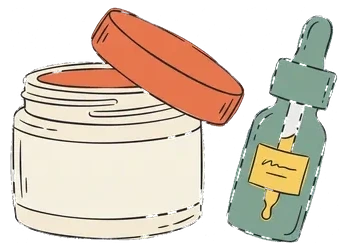
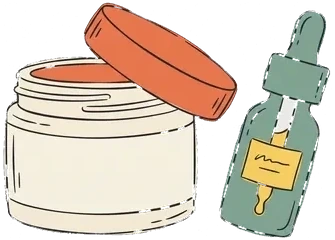
Le illustrazioni entrano nel foglio-picker di Vendi
Erano rimaste le emoji per una ragione che sembrava buona — li' si
sceglie, non si guarda — ma vista a schermo la lista con le
illustrazioni convince di piu'.

Il file e' un FRANCOBOLLO da 128px e non quello pieno: 181 KB in tutto
invece di 787, e 1,4 MB di bitmap invece di 13. Un menu che si apre in
due secondi non deve scaricare mezzo megabyte. Li fa lo stesso script
delle illustrazioni, dai file gia' pareggiati, cosi' le proporzioni
del menu sono quelle della griglia senza un secondo posto da tarare.

Restano nude, senza pastiglia: quella dava piu' contrasto a tutti ma
faceva di una lista da scorrere un cassetto di app. Il prezzo e'
scritto nel codice — in tema chiaro il barattolo di crema e il ciak si
assottigliano sul bianco, perche' quei disegni usano il crema come
colore del corpo.

Nella griglia di Sfoglia, due ritocchi guardando la pagina vera: la
ciotola del cane scende sotto il tetto, la chitarra sale a 49x72 —
era al soffitto, quindi e' salito il riquadro per tutti.

Changed region(s): [[0.0, 0.0, 0.7164, 0.9917], [0.6269, 0.0292, 0.9851, 0.9917]]

diff --git a/miniapp.html b/miniapp.html
@@ -480,7 +480,7 @@
      estremi ogni disegno scende sui 57px e le piastrelle si svuotano
      — si perde su tutte per pareggiare due casi. */
   .cat-tile .cat-fig{flex:1 1 auto;min-height:0;position:relative;
-    width:54%;margin:5px 13px 10px auto}
+    width:54%;margin:4px 13px 8px auto}
   /* CENTRATA nel suo riquadro, non incollata all'angolo: i file
      pareggiati portano un bordo trasparente attorno (vedi
      ritaglia_categorie.py), e ancorati in basso a destra si
@@ -1587,6 +1587,30 @@
   .picker-voce.sel{background:var(--sats-soft)}
   .picker-voce:focus-visible{outline:2px solid var(--sats);outline-offset:-2px}
   .picker-voce .p-ico{font-size:18px;flex:0 0 auto}
+  /* L'illustrazione della categoria nel foglio-picker e nel campo,
+     NUDA sul foglio (deciso lug 2026: la pastiglia scura, provata,
+     dava piu' contrasto ma trasformava una lista da scorrere in un
+     cassetto di app).
+     IMPERFEZIONE DICHIARATA, che e' il prezzo di quella scelta: questi
+     disegni usano il crema come colore del CORPO, non come dettaglio,
+     e il foglio in tema chiaro e' bianco — cosi' il barattolo di crema
+     ci perde il corpo e restano coperchio e contagocce a mezz'aria, e
+     il telefono e il ciak si assottigliano. Gli altri ventitre'
+     reggono, e in tema scuro reggono tutti. Se un domani si vorra'
+     chiudere quel buco, la strada NON e' ritoccare qui: e' rifare quei
+     tre disegni con un corpo che non sia quasi-bianco.
+     Il file e' il francobollo `-mini` da 128px, non quello pieno: 180
+     KB in tutto invece di 787, per un menu che si apre in due secondi
+     (li fa ritaglia_categorie.py). */
+  .cat-ico{flex:0 0 auto;position:relative;width:30px;height:30px}
+  .cat-ico img{position:absolute;inset:0;width:100%;height:100%;
+    object-fit:contain;display:block}
+  /* ripiego a emoji se l'immagine non arriva: lo stesso giro delle
+     piastrelle di Sfoglia, sibling scoperto dall'onerror */
+  .cat-ico .cat-ico-em{position:absolute;inset:0;display:flex;
+    align-items:center;justify-content:center;font-size:17px}
+  .cat-ico img + .cat-ico-em{display:none}
+  .campo-scelta .cat-ico{width:26px;height:26px}
   /* Le icone graduate delle taglie: dentro il tondo del box non
      scendono mai sotto la riga di base, quindi le voci del foglio
      restano incolonnate mentre la scatola cresce */
@@ -3476,6 +3500,16 @@ function setCat(c){
    anche quali file sono servibili — prove.py fallisce se divergono o
    se a una categoria manca la sua immagine. */
 const slugCat = c => c.toLowerCase().replace(/ /g,'-');
+
+/* L'illustrazione della categoria in piccolo: la usa il foglio-picker
+   di Vendi (voci e campo chiuso). Il file e' il francobollo `-mini`,
+   non quello pieno — un menu non deve scaricare 787 KB per aprirsi.
+   L'emoji resta sotto come ripiego, scoperta dall'onerror. */
+function icoCategoria(c){
+  return `<span class="cat-ico"><img src="/assets/categorie/${slugCat(c)}-mini.webp"
+      alt="" loading="lazy" decoding="async" onerror="this.remove()"
+    ><span class="cat-ico-em" aria-hidden="true">${EMOJI_CAT[c]||'📦'}</span></span>`;
+}
 
 /* Le 26 piastrelle. I conteggi sono gli stessi di renderChips (globali
    dal server, dal locale in DEMO) ma qui NON si mostrano: servono solo
@@ -5682,8 +5716,8 @@ function closeSheet(){
 const PICKER = {
   sellCat: {titolo:'Categoria',
     voci: () => [...el('sellCat').options].map(o => ({val:o.value,
-      resa:`<span class="p-ico">${EMOJI_CAT[o.value]||'📦'}</span><span><b>${esc(o.value)}</b></span>`})),
-    campo: v => `<span class="p-ico">${EMOJI_CAT[v]||'📦'}</span><span>${esc(v)}</span>`,
+      resa:`${icoCategoria(o.value)}<span><b>${esc(o.value)}</b></span>`})),
+    campo: v => `${icoCategoria(v)}<span>${esc(v)}</span>`,
     /* certe categorie la condizione non la chiedono: il campo sotto
        compare o sparisce con la scelta */
     poi: aggiornaCondizioneForm},

diff --git a/ritaglia_categorie.py b/ritaglia_categorie.py
@@ -45,13 +45,27 @@ SOGLIA_ALPHA = 8
 # che resta sotto il nome). Serve solo a sapere CHI e' limitato in
 # larghezza e chi in altezza — se quelle misure cambiassero di molto,
 # il pareggio andrebbe rifatto.
-BOX_W, BOX_H = 85.9, 69.0
+BOX_W, BOX_H = 85.9, 72.0
 # Il tetto, in multipli dell'inchiostro MEDIANO: 1.05 lascia stare la
 # meta' piu' leggera e calma solo chi sporge.
 TETTO = 1.05
+# I RITOCCHI A MANO, guardando la pagina vera: la misura
+# dell'inchiostro porta lontano ma non decide tutto — una ciotola vista
+# dall'alto «pesa» piu' di quanto dica il suo inchiostro. Qui il
+# moltiplicatore sul tetto per le singole voci: sotto 1 = piu' piccola.
+# Chi ne aggiunge una lo faccia dopo aver guardato la griglia intera,
+# non la singola piastrella.
+RITOCCHI = {"animali": .88}
 # Sotto questo scarto non si riscrive: un ritocco da pochi pixel non
 # vale una seconda compressione.
 MINIMO = .02
+# Il francobollo per il foglio-picker di Vendi, dove l'illustrazione
+# sta in una pastiglia da ~32px: il file pieno la' dentro sarebbe uno
+# spreco (26 file da 512px, 787 KB e 13 MB di bitmap da decodificare,
+# per un menu che si apre in due secondi). 128px danno margine anche
+# sugli schermi a 3x. Stessa idea delle miniature `_min` delle foto.
+LATO_MINI = 128
+SUFFISSO_MINI = "-mini"
 
 
 def _misura(im):
@@ -80,7 +94,9 @@ def main():
         print(f"cartella {CARTELLA} assente")
         return 1
 
-    file = sorted(f for f in os.listdir(CARTELLA) if f.endswith(".webp"))
+    file = sorted(f for f in os.listdir(CARTELLA)
+                  if f.endswith(".webp")
+                  and not f.endswith(SUFFISSO_MINI + ".webp"))
     misure = {}
     for nome in file:
         im = Image.open(os.path.join(CARTELLA, nome)).convert("RGBA")
@@ -102,7 +118,8 @@ def main():
         disegno = im.crop(bb)
         w, h = disegno.size
         # quanto bordo serve perche' il reso scenda sotto il tetto
-        p = max(1.0, (reso / tetto) ** .5) if tetto else 1.0
+        suo = tetto * RITOCCHI.get(nome[:-5], 1.0)
+        p = max(1.0, (reso / suo) ** .5) if suo else 1.0
         nw, nh = round(w * p), round(h * p)
         vecchio = im.size
         if (abs(nw - vecchio[0]) <= MINIMO * nw
@@ -120,7 +137,37 @@ def main():
         fatti += 1
 
     print(f"\n{fatti} da sistemare, {fermi} gia' a posto")
-    if fatti and not scrivi:
+
+    # I francobolli per il picker, rifatti SEMPRE dai file finali (cioe'
+    # dopo ritaglio e pareggio): cosi' nel menu le proporzioni sono le
+    # stesse della griglia, senza un secondo posto dove tararle.
+    mini_fatti = mini_fermi = 0
+    peso = 0.0
+    for nome in file:
+        pieno = os.path.join(CARTELLA, nome)
+        mini = os.path.join(CARTELLA, nome[:-5] + SUFFISSO_MINI + ".webp")
+        im = Image.open(pieno).convert("RGBA")
+        s = LATO_MINI / max(im.size)
+        atteso = (max(1, round(im.size[0] * s)), max(1, round(im.size[1] * s)))
+        if os.path.exists(mini) and Image.open(mini).size == atteso and not scrivi:
+            mini_fermi += 1
+            peso += os.path.getsize(mini) / 1024
+            continue
+        if scrivi:
+            im.resize(atteso, Image.LANCZOS).save(
+                mini, "WEBP", quality=QUALITA, method=6)
+            peso += os.path.getsize(mini) / 1024
+            if os.path.exists(mini):
+                mini_fatti += 1
+        else:
+            mini_fatti += 1
+    if scrivi:
+        print(f"{mini_fatti} francobolli da {LATO_MINI}px, "
+              f"{peso:.0f} KB in tutto")
+    else:
+        print(f"{mini_fatti} francobolli da rifare, {mini_fermi} a posto")
+
+    if (fatti or mini_fatti) and not scrivi:
         print("niente e' stato scritto: rilancia con --scrivi")
     return 0
 

diff --git a/prove.py b/prove.py
@@ -366,6 +366,12 @@ def prove_categorie():
     prova("ogni categoria ha la sua illustrazione", [],
           [c for c in cat
            if not os.path.exists(f"assets/categorie/{slug(c)}.webp")])
+    # e il suo francobollo per il foglio-picker di Vendi: si dimentica
+    # facilmente, perche' manca solo la' dentro e il ripiego a emoji
+    # fa sembrare che vada tutto bene
+    prova("ogni categoria ha il suo francobollo -mini", [],
+          [c for c in cat
+           if not os.path.exists(f"assets/categorie/{slug(c)}-mini.webp")])
 
     # Le illustrazioni devono essere TIRATE, cioe' senza margine
     # trasparente attorno (ci pensa ritaglia_categorie.py). Non e' una

diff --git a/server.py b/server.py
@@ -11745,7 +11745,10 @@ def asset_tappo():
 @app.get("/assets/categorie/{nome}")
 def asset_categoria(nome: str):
     slug = nome[:-5] if nome.endswith(".webp") else ""
-    if slug not in SLUG_CATEGORIE:
+    # il francobollo del foglio-picker: stesso slug col suffisso, e
+    # passa dalla stessa whitelist (che resta calcolata dal catalogo)
+    base = slug[:-5] if slug.endswith("-mini") else slug
+    if base not in SLUG_CATEGORIE:
         raise HTTPException(404, "immagine non trovata")
     percorso = os.path.join("assets", "categorie", slug + ".webp")
     if not os.path.exists(percorso):
